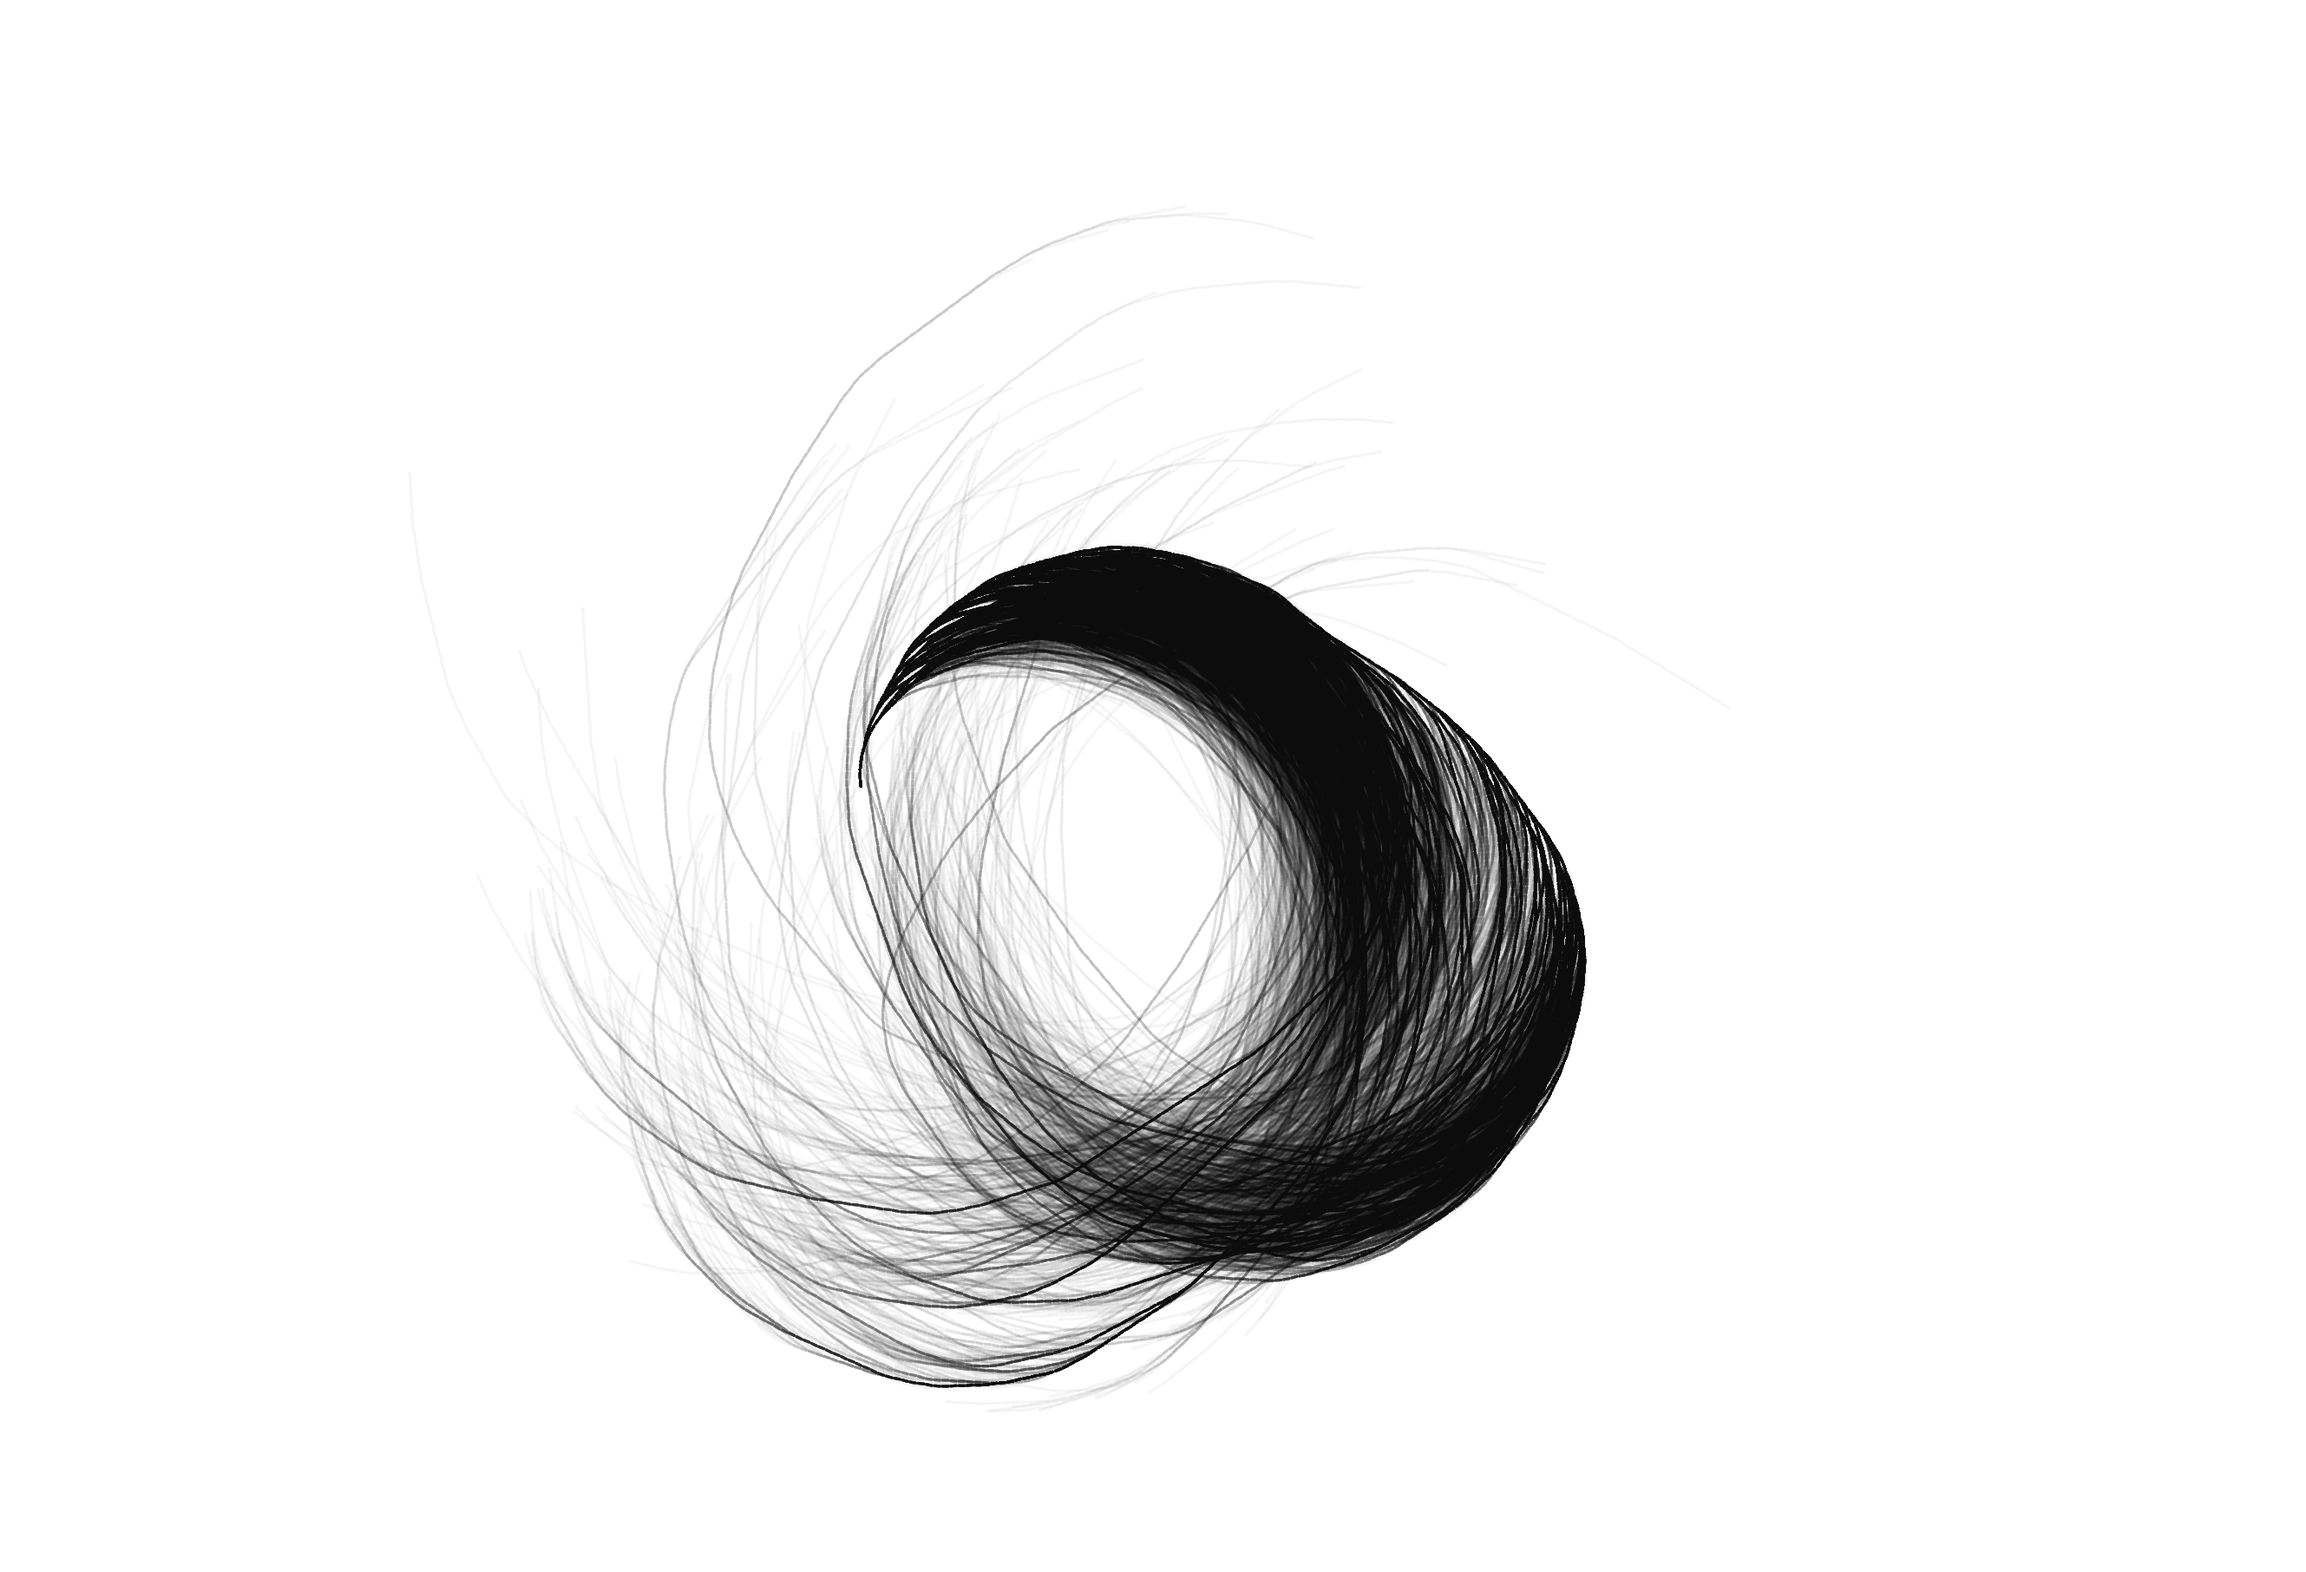
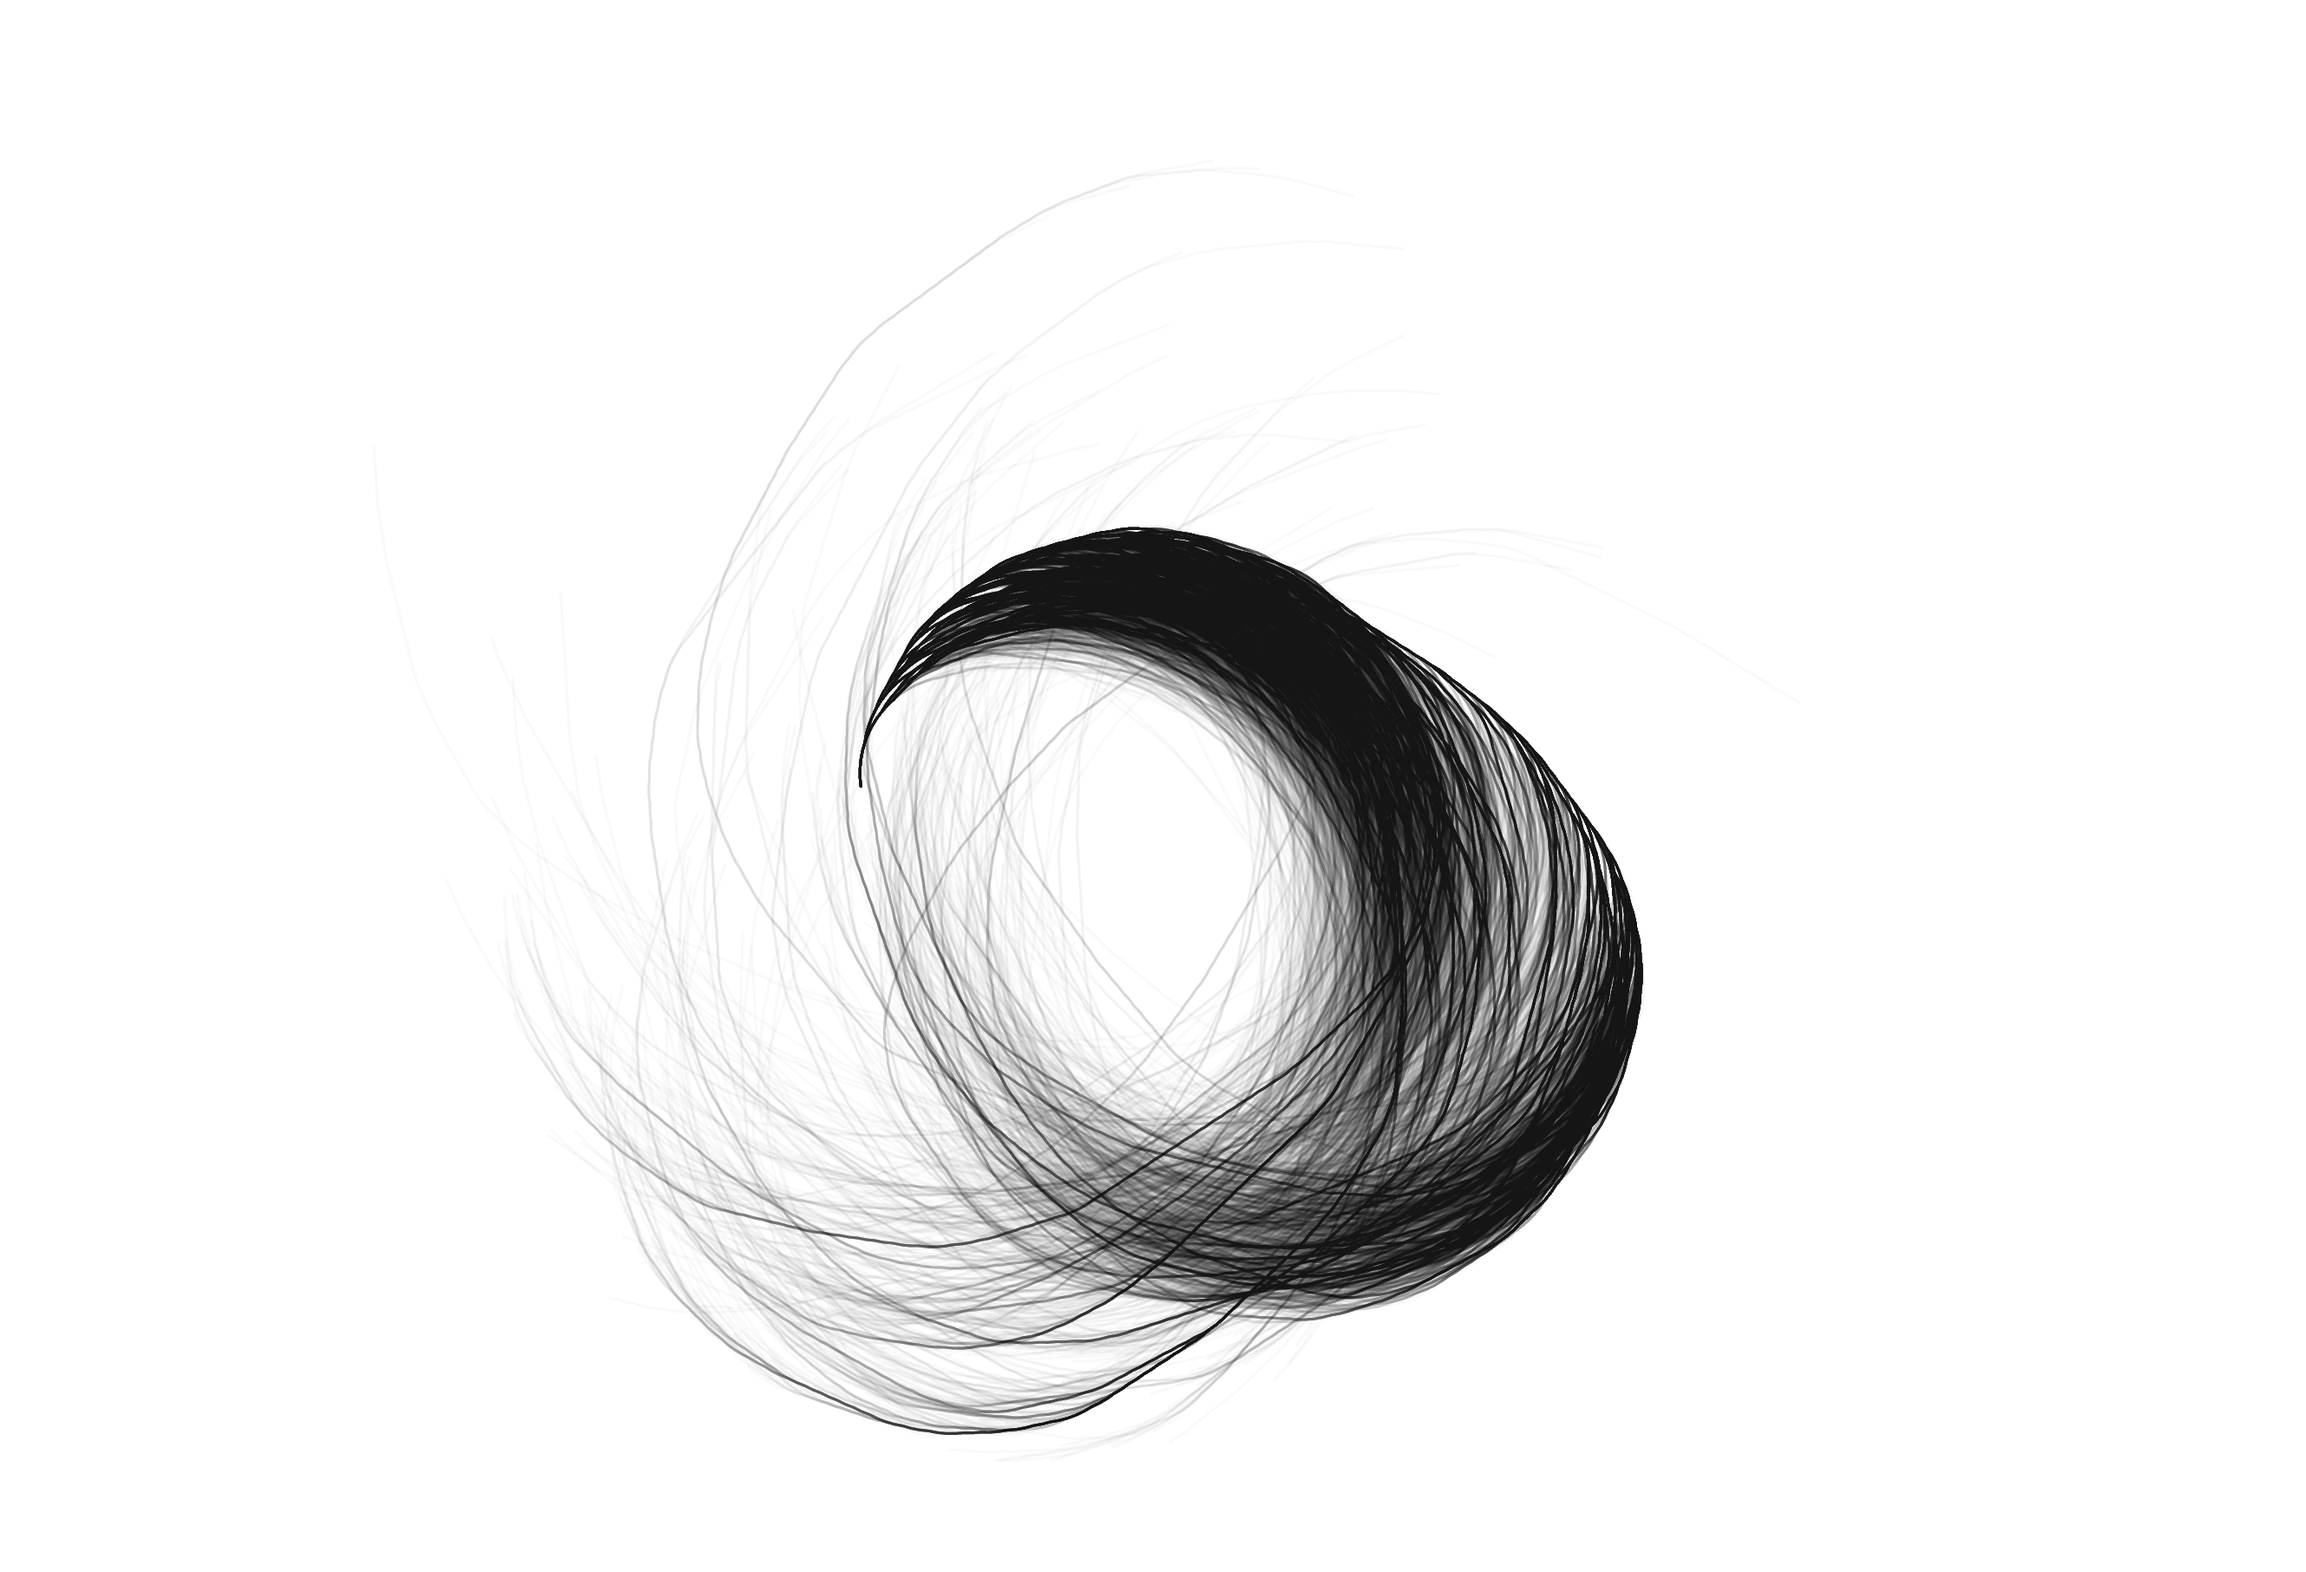
Improved algorithm

Changed region(s): [[0.2498, 0.3091, 0.7182, 0.9272], [0.281, 0.4018, 0.3123, 0.5254], [0.3123, 0.34, 0.3435, 0.3709]]

diff --git a/collatz.js b/collatz.js
@@ -3,9 +3,6 @@
   Generates a visualization of the Collatz Conjecture
   https://en.wikipedia.org/wiki/Collatz_conjecture
 
-  Translating and Rotating inspired by Daniel Shiffman (The Coding Train)
-  https://thecodingtrain.com/CodingInTheCabana/002-collatz-conjecture.html
-
   Author: Michael J. Neumann
   https://www.michael-neumann.net
 
@@ -13,28 +10,19 @@
 
 // ***** SETUP AREA : start *****
 
-/* fullMode = true  : consider all (even and odd) values when getting the next number
-   fullMode = false : take a shortcut and additionally divide by 2 when getting the next number */
-
-let fullMode = false;
+const fullMode = true;       // consider all (even and odd) numbers, or take a shortcut and divide by 2 when returning the next number in the sequence
+const treeSize = 120587;     // create branches for numbers from 1 to <treeSize>
+const angle    = 0.09081979; // angle to turn when drawing even / odd number
 
 // ***** SETUP AREA : end *****
 
-/* ***************************************
-
-   DO NOT CHANGE ANY CODE BELOW THIS LINE!
-
-   *************************************** */
-
-// returns the next number for the Collatz Conjecture
 function getNextNumber(number) {
 
-  if (number %2 == 0) { return number * 0.5; }
-  else                { if (fullMode == true) { return (number * 3 + 1) } else { return (number * 3 + 1) * 0.5; } }
+  if (number %2 === 0) { return number / 2; }
+  else                 { if (fullMode === true) { return (number * 3 + 1) } else { return (number * 3 + 1) / 2; } }
 
 }
 
-// returns true if the array is a subset of the candidate array
 function isSubsetOf(array, candidate) {
 
   if (array.length > candidate.length) { return false; }
@@ -45,35 +33,35 @@ function isSubsetOf(array, candidate) {
 
 }
 
-// creates the Collatz tree containing all branches up to a certain depth
 function createTree(depth) {
 
-  var tree = [];
+  // initalize with a tree for number 1
 
-  for (var number=1; number<=depth; number++) {
+  var tree = [[1]];
+
+  for (var number=2; number<=depth; number++) {
 
     var n = number;
     var branch = [n];
-    var hasPositionInTree = -1;
 
-    while (n > 1) {
-      n = getNextNumber(n);
-      branch.push(n);
-    }
+    while (n > 1) { branch.push(n = getNextNumber(n)); }
     branch.reverse();
 
     // optimize tree structure by extending existing trees
+    // if the branch already exists, update it with the newer (longer) branch
+    // if the branch is a subset of any existing branch, then there is nothing to do
+    // if the branch does not exist, add it to the tree
+
+    var addNewBranch = true;
+
     for (var i=0; i<tree.length; i++) {
-      // if any tree branch is a subset of the current branch, remember the tree's branch
-      if (isSubsetOf(tree[i], branch)) { hasPositionInTree = i; break; }
-      // if current branch is a subset of the any tree branch, then there is nothing to do
-      else if (isSubsetOf(branch, tree[i])) { hasPositionInTree = -2; break; }
+
+      if (isSubsetOf(tree[i], branch)) { tree[i] = branch; addNewBranch = false; break; }
+      else if (isSubsetOf(branch, tree[i])) { addNewBranch = false; break; }
+
     }
 
-    // if the branch already exists, update it with the newer (longer) version
-    if (hasPositionInTree > -1) { tree[i] = branch; }
-    // if the branch does not yet exist, create a new branch in the tree
-    else if (hasPositionInTree == -1) { tree.push(branch); }
+    if (addNewBranch) { tree.push(branch); }
 
   }
 
@@ -82,37 +70,42 @@ function createTree(depth) {
 }
 
 // setup and draw the final images on the canvas
-// code release on 14.3.2020 (Pi Day) - see below for more Pis
+// initial code release on 14.3.2020 (Pi Day) - see below for more Pis
+
 function setup() {
 
-  let tree  = createTree(120587);
-  let angle = 0.09081979;
-  let len   = PI;
-
-  let dimension = Math.pow(PI, PI) * Math.pow(PI, PI);
+  const tree  = createTree(treeSize);
+  const dimension = Math.pow(PI, PI) * Math.pow(PI, PI);
 
   createCanvas(dimension, dimension - (dimension / PI));
-  background(255);
+  strokeWeight(HALF_PI);
+  stroke(0, TWO_PI);
+  noFill();
+
+  var start;
+
+  if (fullMode === true) { start = createVector(width / PI + Math.pow(PI, PI) + Math.pow(PI, PI), height / 2); }
+  else                   { start = createVector(width / 2 + Math.pow(PI, PI) * PI, height - Math.pow(PI, PI) * 1.61803398875); }
 
   for (var i=0; i<tree.length; i++) {
 
-    resetMatrix();
+    var v = start.copy();
+    var z = createVector(0, -PI - PI / 1.61803398875);
 
-    // change origin depening on fullMode
-    if (fullMode == true) { translate(width / PI + Math.pow(PI, PI) + Math.pow(PI, PI), height / 2); }
-    else                  { translate(width / 2 + (Math.pow(PI, PI) * PI), height - Math.pow(PI, PI) - Math.pow(PI, PI)); }
+    beginShape();
+    vertex(v.x, v.y);
 
     for (var j=0; j<tree[i].length; j++) {
 
-      if (tree[i][j] %2 == 0) { rotate(angle); }
-      else                    { rotate(-angle); }
+      if (tree[i][j] %2 === 0) { z.rotate(angle); }
+      else                     { z.rotate(-angle); }
 
-      strokeWeight(PI/2);
-      stroke(0, 10);
-      line(0,0,0,-len);
-      translate(0,-len-(PI/2));
+      v.add(z);
+      vertex(v.x, v.y);
 
     }
+
+    endShape();
 
   }
 

diff --git a/Readme.md b/Readme.md
@@ -5,25 +5,15 @@ See [Collatz Conjecture - Wikipedia](https://en.wikipedia.org/wiki/Collatz_conje
 This code has been uploaded on March 14th - Pi Day. Therefore you will find a significant number of unnecessary calculations involving PI when drawing the output.
 
 This algorithm uses an optimization method to reduce the number of overlapping trees.
-* If a new branch is extending an already existing branch, it will replace it in the tree instead of spawning a new branch.
-* If a new branch is a subset of an already existing branch, it will not be addded as it's already part of the longer branch.
+* If a new branch is extending an already existing branch, it will replace it in the tree.
+* If a new branch is a subset of an already existing branch, it will not be added as it is already part of the longer branch.
 * If a new branch is indeed new, it will spawn a new branch in the tree.
 
-When drawing the algorithm takes a number in the tree and renders a line to the previous number, where the length of the line is always the same size (PI). In case a number is even, the canvas rotates in a positive angle - if the number is odd, the canvas rotates in a negative angle when rendering the final output.
+When rendering the final output, the algorithm takes a number in the tree and draws a line to the previous number, where the length of the line is always the same size. In case a number is even, the canvas rotates in a positive angle - if the number is odd, the canvas rotates in a negative angle.
 
-Depending on the rendering mode, a different starting point of the output needs to be determined.
+Depending on the rendering mode, a different starting point needs to be determined.
 
-The default values can cause browser performance issues, as the initial Collatz Tree is built with 120587 numbers.
-
-## Setup
-
-In **collatz.js** define **fullMode** in the Setup Area.
-
-If set to **true**, all even and odd numbers in the sequence are considered for rendering.
-
-If set to **false**, the algorithm takes a shortcut and adds a division by 2 to the odd numbers.
-
-The result will look different as the tree is now rendered with a different set of numbers.
+The default values can cause browser performance issues, as the initial Collatz Tree is built for 120587 numbers.
 
 ## Output
 
